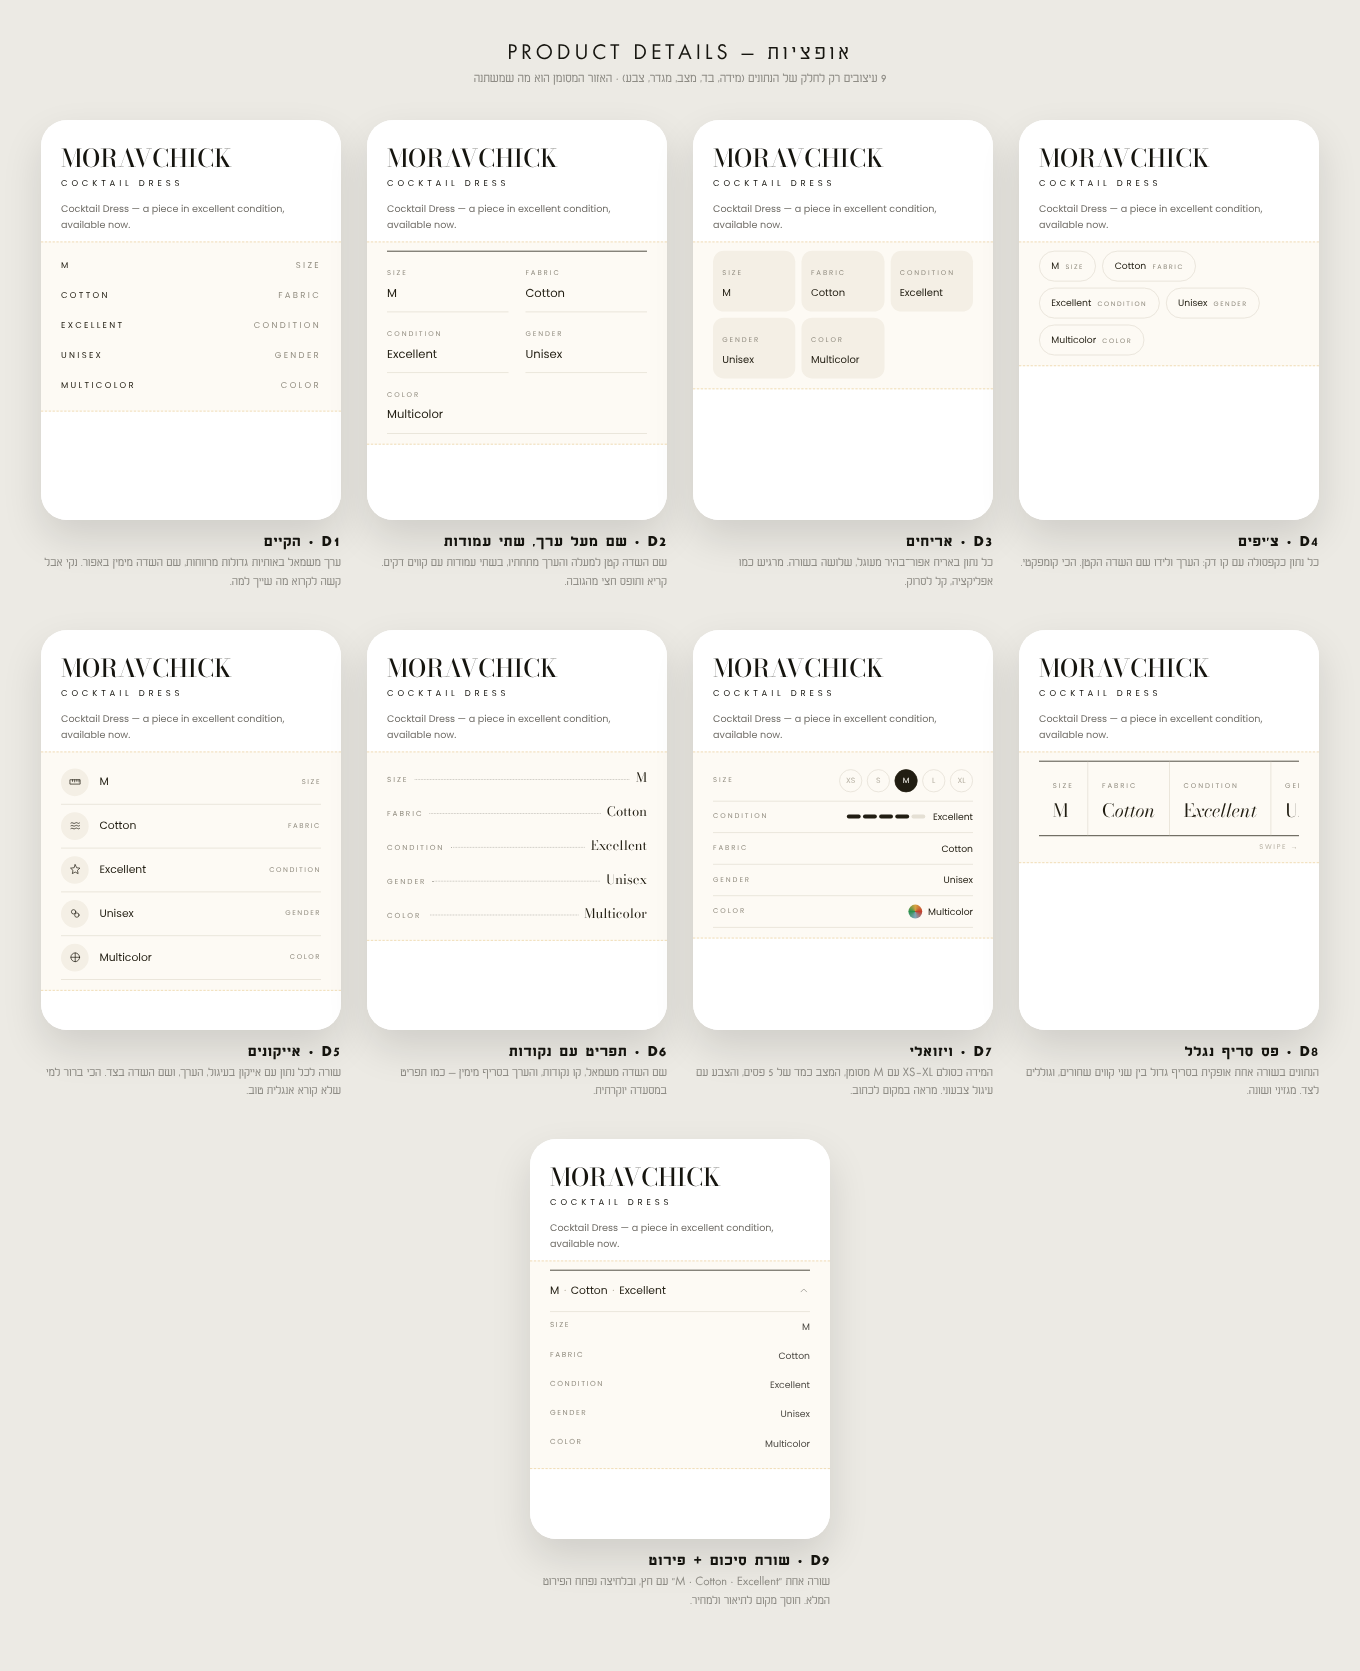
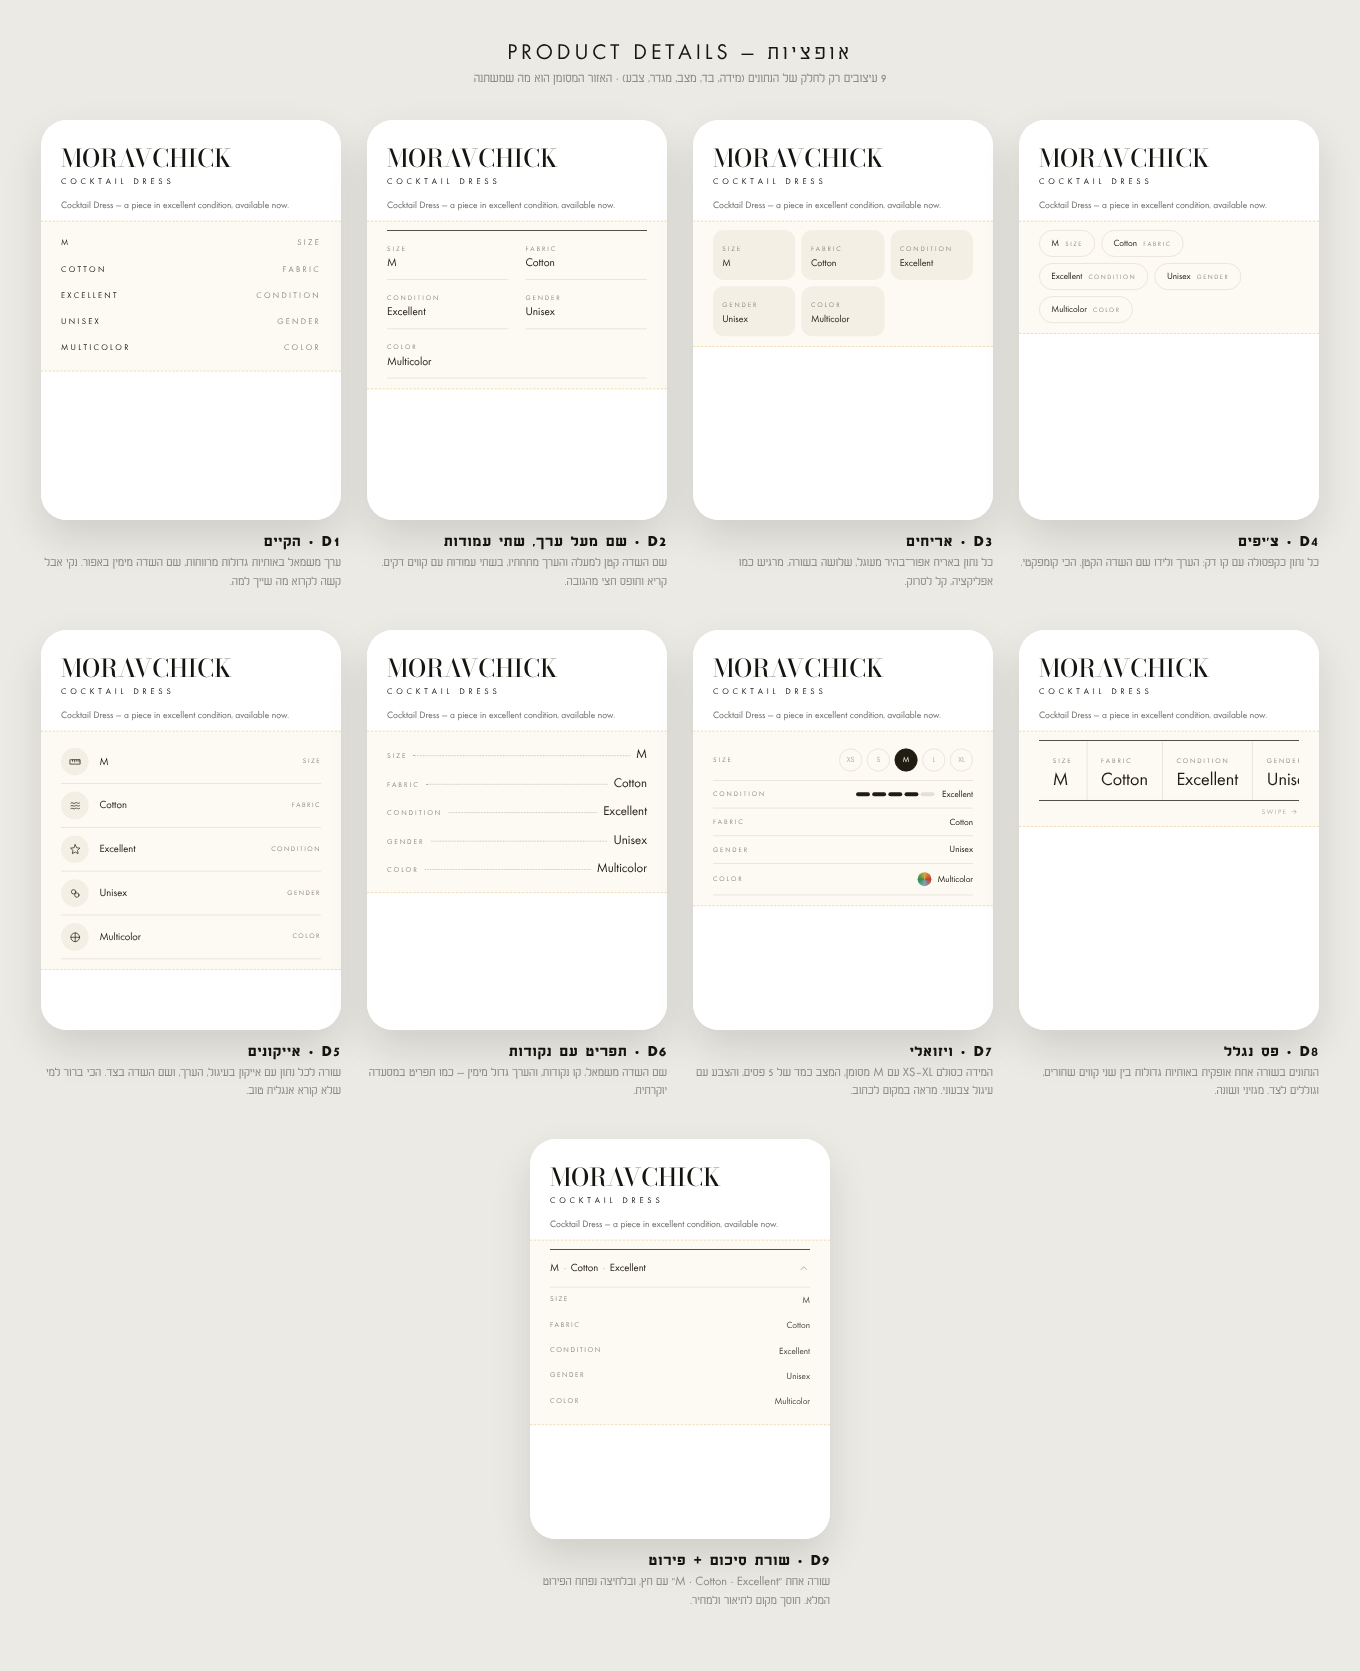
Product details options: set in Aharoni CLM like the live page
Claude-Session: https://claude.ai/code/session_0118qvvTyudAmKus4s9b3sZV

diff --git a/design-options/product-specs-options.html b/design-options/product-specs-options.html
@@ -22,7 +22,7 @@ h1 { font-size: 22px; font-weight: 400; letter-spacing: 4px; text-transform: upp
 .opt-label span { display: block; font-size: 12.5px; color: var(--muted); line-height: 1.5; margin-top: 4px; }
 
 .phone { width: 300px; height: 400px; border-radius: 26px; overflow: hidden; position: relative; background: #fff; box-shadow: 0 18px 40px rgba(0,0,0,0.12); }
-.screen { width: 390px; height: 520px; transform: scale(0.7692); transform-origin: 0 0; position: relative; overflow: hidden; background: #fff; font-family: 'Poppins', sans-serif; padding: 34px 26px 0; }
+.screen { width: 390px; height: 520px; transform: scale(0.7692); transform-origin: 0 0; position: relative; overflow: hidden; background: #fff; font-family: 'Aharoni CLM', 'Segoe UI', sans-serif; padding: 34px 26px 0; }
 .ctx .brand { font-family: 'Bodoni Moda', serif; font-weight: 500; font-size: 32px; line-height: 1; }
 .ctx .pname { font-size: 11px; letter-spacing: 5px; text-transform: uppercase; margin-top: 8px; }
 .ctx .desc { font-size: 12.5px; line-height: 1.7; color: #6f6c66; margin-top: 14px; padding-bottom: 22px; }
@@ -61,7 +61,7 @@ h1 { font-size: 22px; font-weight: 400; letter-spacing: 4px; text-transform: upp
 .d6 div { display: flex; align-items: baseline; gap: 8px; padding: 9px 0; }
 .d6 div small { font-size: 9.5px; letter-spacing: 2.5px; text-transform: uppercase; color: var(--muted); }
 .d6 div em { flex: 1; border-bottom: 1px dotted var(--faint); transform: translateY(-3px); }
-.d6 div b { font-family: 'Bodoni Moda', serif; font-weight: 400; font-size: 17px; }
+.d6 div b { font-family: 'Aharoni CLM', 'Segoe UI', sans-serif; font-weight: 400; font-size: 17px; }
 
 /* D7 visual: size scale, condition meter, color swatch */
 .d7 > div { padding: 11px 0; border-bottom: 1px solid var(--line); display: flex; align-items: center; justify-content: space-between; }
@@ -78,8 +78,8 @@ h1 { font-size: 22px; font-weight: 400; letter-spacing: 4px; text-transform: upp
 .d8 { display: flex; gap: 0; border-top: 1px solid var(--ink); border-bottom: 1px solid var(--ink); overflow: hidden; }
 .d8 div { flex: none; padding: 16px 18px 14px; text-align: left; }
 .d8 div + div { border-left: 1px solid var(--line); }
-.d8 div b { display: block; font-family: 'Bodoni Moda', serif; font-weight: 400; font-size: 24px; margin-top: 4px; }
-.d8 div b i { font-style: italic; }
+.d8 div b { display: block; font-family: 'Aharoni CLM', 'Segoe UI', sans-serif; font-weight: 400; font-size: 24px; margin-top: 4px; }
+.d8 div b i { font-style: normal; }
 .hint { font-size: 9px; letter-spacing: 2px; text-transform: uppercase; color: var(--faint); text-align: right; margin-top: 8px; }
 
 /* D9 summary + expand */
@@ -123,7 +123,7 @@ var OPTS = [
   ['D5 · אייקונים', 'שורה לכל נתון עם אייקון בעיגול, הערך, ושם השדה בצד. הכי ברור למי שלא קורא אנגלית טוב.',
    ctx('<div class="d5">' + D.map(function (d) { return '<div><i><svg viewBox="0 0 24 24">' + IC[d[0]] + '</svg></i><b>' + d[1] + '</b><small>' + d[0] + '</small></div>'; }).join('') + '</div>')],
 
-  ['D6 · תפריט עם נקודות', 'שם השדה משמאל, קו נקודות, והערך בסריף מימין — כמו תפריט במסעדה יוקרתית.',
+  ['D6 · תפריט עם נקודות', 'שם השדה משמאל, קו נקודות, והערך גדול מימין — כמו תפריט במסעדה יוקרתית.',
    ctx('<div class="d6">' + D.map(function (d) { return '<div><small>' + d[0] + '</small><em></em><b>' + d[1] + '</b></div>'; }).join('') + '</div>')],
 
   ['D7 · ויזואלי', 'המידה כסולם XS–XL עם M מסומן, המצב כמד של 5 פסים, והצבע עם עיגול צבעוני. מראה במקום לכתוב.',
@@ -134,7 +134,7 @@ var OPTS = [
      '<div><span class="k">Gender</span><span class="val">Unisex</span></div>' +
      '<div><span class="k">Color</span><span class="sw"><i></i>Multicolor</span></div></div>')],
 
-  ['D8 · פס סריף נגלל', 'הנתונים בשורה אחת אופקית בסריף גדול בין שני קווים שחורים, וגוללים לצד. מגזיני ושונה.',
+  ['D8 · פס נגלל', 'הנתונים בשורה אחת אופקית באותיות גדולות בין שני קווים שחורים, וגוללים לצד. מגזיני ושונה.',
    ctx('<div class="d8">' + D.map(function (d) { return '<div><span class="k">' + d[0] + '</span><b>' + d[1].replace(/^(\w)(\w+)$/, '$1<i>$2</i>') + '</b></div>'; }).join('') + '</div><div class="hint">swipe →</div>')],
 
   ['D9 · שורת סיכום + פירוט', 'שורה אחת "M · Cotton · Excellent" עם חץ, ובלחיצה נפתח הפירוט המלא. חוסך מקום לתיאור ולמחיר.',
